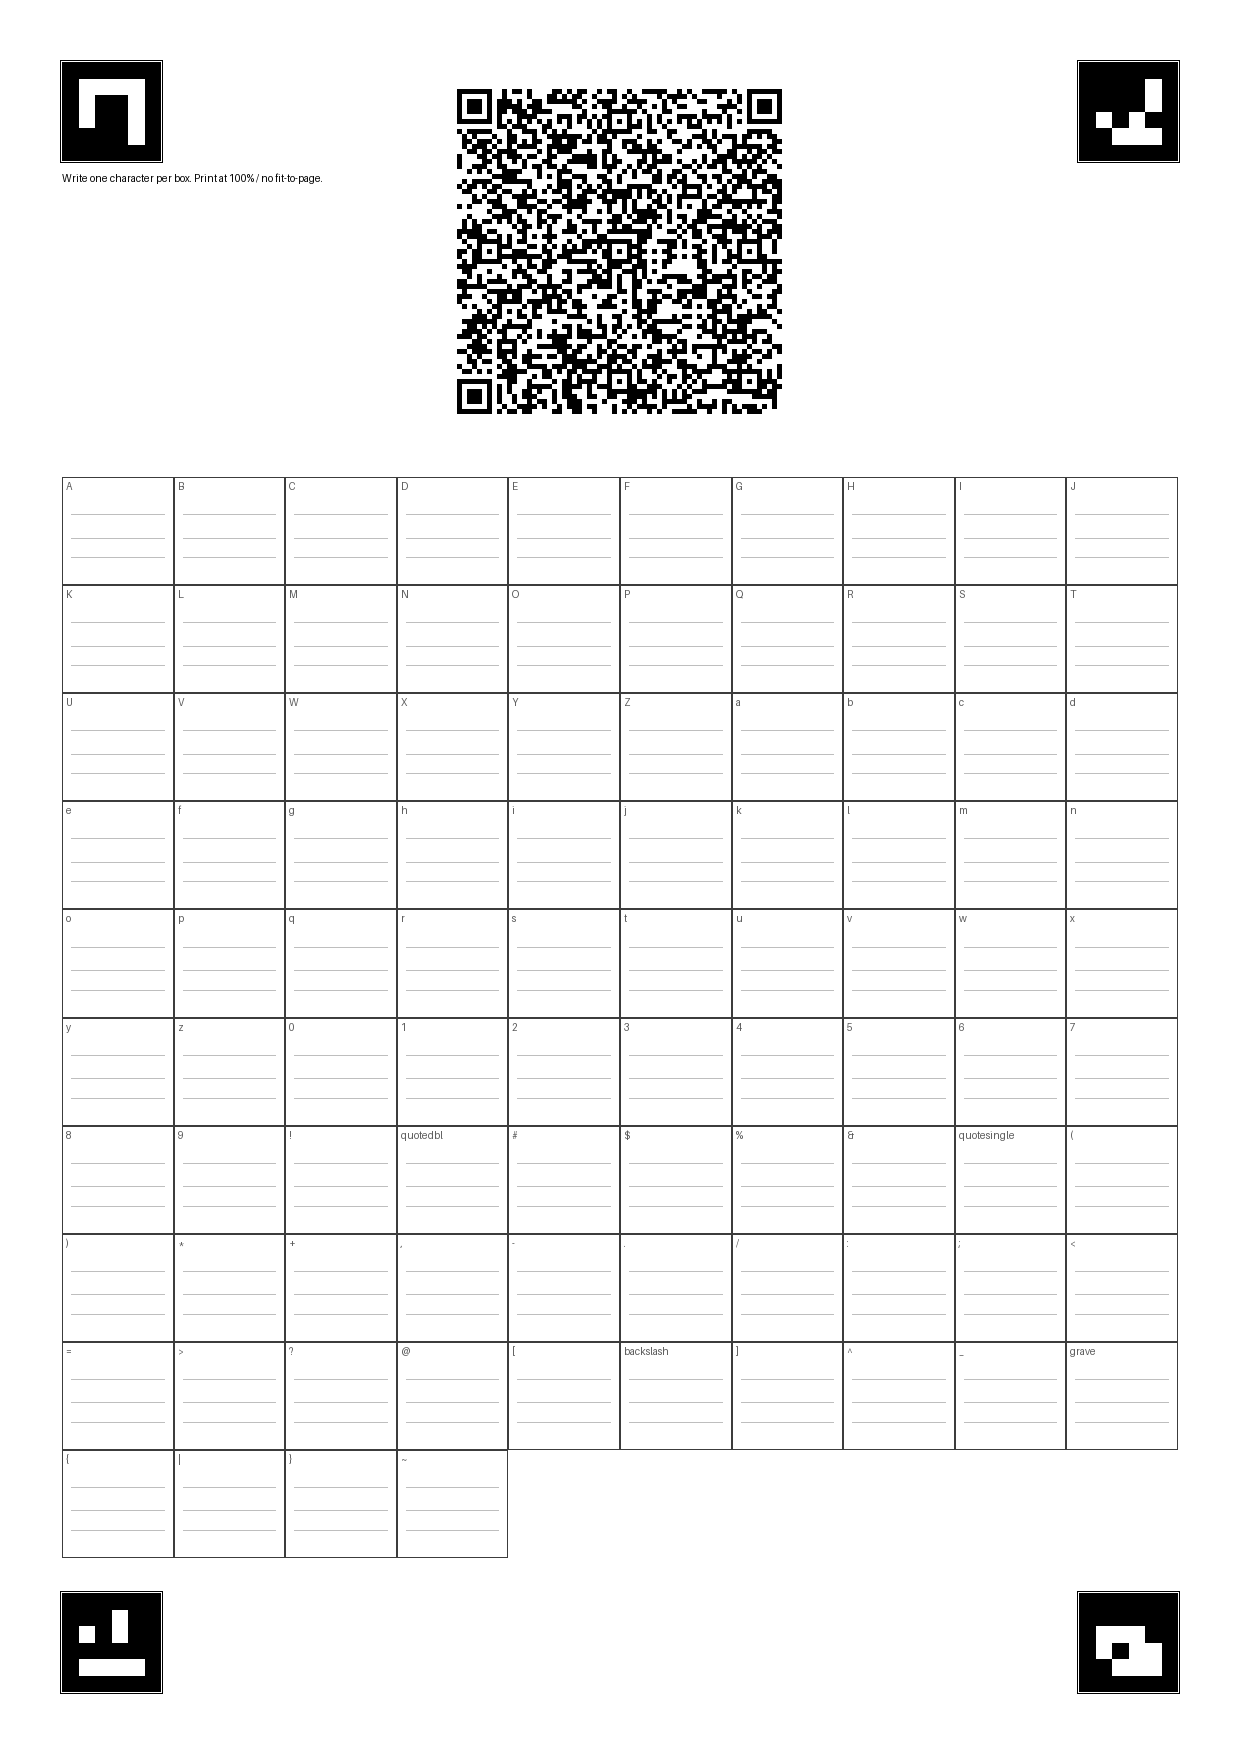
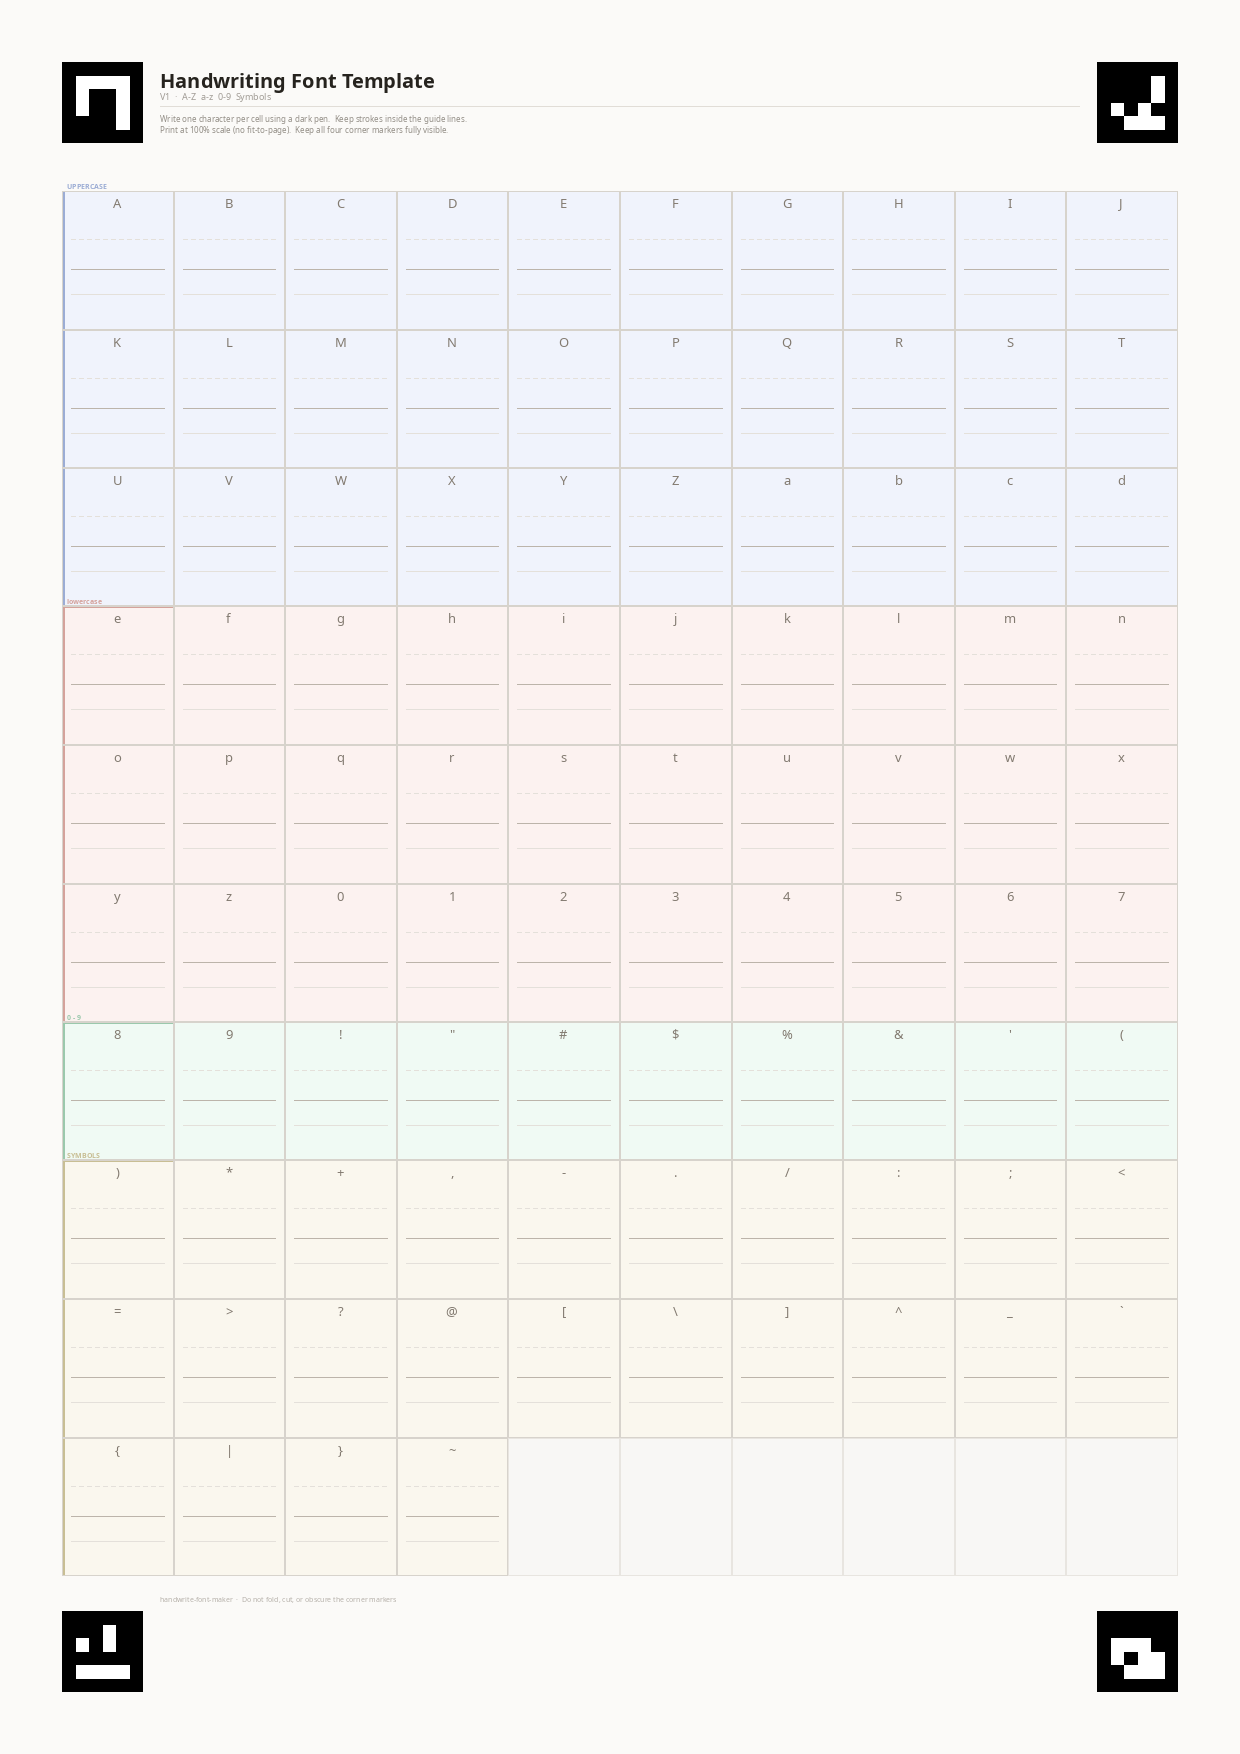
Redesign template for beauty and B&W-safe detection
Group-color-coded rows (blue uppercase, warm lowercase, green digits,
amber symbols) with accent bars, dashed ascender guides, solid baselines,
section labels, and empty-cell treatment.  Row tints stay within 6 gray
levels of the background so B&W photocopies and mobile captures still
detect cleanly (verified under 7 conditions: clean, B&W, warp 0.12/0.16,
dark+noisy, etc — all reproj < 2px).

diff --git a/src/handwrite_font_maker/template.py b/src/handwrite_font_maker/template.py
@@ -3,12 +3,10 @@ from __future__ import annotations
 from io import BytesIO
 from pathlib import Path
 
-import qrcode
 from PIL import Image, ImageDraw, ImageFont
 
-from .layout import get_layout, glyph_slug
+from .layout import get_layout
 from .markers import generate_marker_image
-from .metadata import encode_metadata, metadata_for_layout
 from .schema import DEFAULT_DPI, Rect, TemplateGeometry, TemplateLayout, compute_geometry, page_points
 
 
@@ -17,20 +15,49 @@ def _paste_grayscale(target: Image.Image, grayscale, box: Rect) -> None:
     target.paste(marker, (box.left, box.top))
 
 
-def _qr_image(payload: str, size: int) -> Image.Image:
-    border = 4
-    qr = qrcode.QRCode(error_correction=qrcode.constants.ERROR_CORRECT_M, border=border, box_size=1)
-    qr.add_data(payload)
-    qr.make(fit=True)
-    modules_with_border = qr.modules_count + (border * 2)
-    box_size = max(2, size // modules_with_border)
-    qr.box_size = box_size
-    qr_image = qr.make_image(fill_color="black", back_color="white").convert("RGB")
-    canvas = Image.new("RGB", (size, size), "white")
-    x = (size - qr_image.width) // 2
-    y = (size - qr_image.height) // 2
-    canvas.paste(qr_image, (x, y))
-    return canvas
+def _load_font(size: int, bold: bool = False) -> ImageFont.FreeTypeFont:
+    paths = [
+        f"/usr/share/fonts/truetype/noto/NotoSans-{'Bold' if bold else 'Regular'}.ttf",
+        f"/usr/share/fonts/truetype/dejavu/DejaVuSans{'-Bold' if bold else ''}.ttf",
+    ]
+    for path in paths:
+        try:
+            return ImageFont.truetype(path, size)
+        except OSError:
+            continue
+    return ImageFont.load_default()
+
+
+_ROW_GROUPS = {
+    0: ("UPPERCASE", (240, 243, 252), (155, 172, 212)),
+    1: ("UPPERCASE", (240, 243, 252), (155, 172, 212)),
+    2: ("UPPERCASE", (240, 243, 252), (155, 172, 212)),
+    3: ("lowercase", (252, 242, 240), (212, 162, 155)),
+    4: ("lowercase", (252, 242, 240), (212, 162, 155)),
+    5: ("lowercase", (252, 242, 240), (212, 162, 155)),
+    6: ("0 - 9", (240, 250, 244), (155, 200, 172)),
+    7: ("SYMBOLS", (250, 247, 238), (200, 190, 148)),
+    8: ("SYMBOLS", (250, 247, 238), (200, 190, 148)),
+    9: ("SYMBOLS", (250, 247, 238), (200, 190, 148)),
+}
+
+_GROUP_START_ROWS = {0, 3, 6, 7}
+
+
+def _draw_dashed_line(
+    draw: ImageDraw.ImageDraw,
+    x0: int,
+    y: int,
+    x1: int,
+    fill: tuple[int, int, int],
+    dash: int = 4,
+    gap: int = 4,
+) -> None:
+    x = x0
+    while x < x1:
+        end = min(x + dash, x1)
+        draw.line((x, y, end, y), fill=fill, width=1)
+        x = end + gap
 
 
 def render_template_image(
@@ -41,34 +68,145 @@ def render_template_image(
 ) -> Image.Image:
     layout = layout or get_layout(paper_size=paper_size)
     geometry = compute_geometry(layout, dpi=dpi, paper_size=paper_size)
-    image = Image.new("RGB", (geometry.page_width, geometry.page_height), "white")
+    bg = (251, 250, 248)
+    image = Image.new("RGB", (geometry.page_width, geometry.page_height), bg)
     draw = ImageDraw.Draw(image)
 
     for role, box in geometry.marker_boxes.items():
         marker_id = layout.marker_roles[role]
         marker = generate_marker_image(marker_id, geometry.marker_size, layout.marker_dictionary)
         _paste_grayscale(image, marker, box)
-        draw.rectangle((box.left - 2, box.top - 2, box.right + 2, box.bottom + 2), outline=(0, 0, 0), width=1)
 
-    payload = encode_metadata(metadata_for_layout(layout, dpi=dpi))
-    qr = _qr_image(payload, geometry.qr_box.width)
-    image.paste(qr, (geometry.qr_box.left, geometry.qr_box.top))
+    _draw_header(draw, geometry, layout)
 
-    draw.text((geometry.margin, geometry.marker_boxes["top_left"].bottom + 12), "Write one character per box. Print at 100% / no fit-to-page.", fill=(0, 0, 0))
+    label_font = _load_font(max(11, geometry.page_width // 95))
+    group_font = _load_font(max(7, geometry.page_width // 175), bold=True)
 
-    font = ImageFont.load_default()
-    for char, cell in zip(layout.chars, geometry.cell_rects, strict=True):
-        draw.rectangle((cell.left, cell.top, cell.right, cell.bottom), outline=(60, 60, 60), width=1)
-        label = glyph_slug(char) if char in {'"', "'", "`", "\\"} else char
-        draw.text((cell.left + 4, cell.top + 3), label, fill=(90, 90, 90), font=font)
+    border_color = (215, 211, 204)
+    label_color = (130, 122, 112)
+    guide_light = (228, 224, 218)
+    guide_baseline = (188, 180, 170)
+    accent_bar_width = max(2, geometry.page_width // 500)
+
+    prev_group = None
+    for index, (char, cell) in enumerate(zip(layout.chars, geometry.cell_rects, strict=True)):
+        row_idx = index // layout.columns
+        col_idx = index % layout.columns
+        group_name, tint, accent = _ROW_GROUPS.get(row_idx, ("", bg, (200, 200, 200)))
+
+        draw.rectangle((cell.left + 1, cell.top + 1, cell.right - 1, cell.bottom - 1), fill=tint)
+
+        if col_idx == 0:
+            draw.rectangle(
+                (cell.left, cell.top, cell.left + accent_bar_width, cell.bottom),
+                fill=accent,
+            )
+
+        if row_idx in _GROUP_START_ROWS and col_idx == 0 and row_idx != 0:
+            sep_y = cell.top
+            draw.line(
+                (geometry.grid_rect.left, sep_y, geometry.grid_rect.right, sep_y),
+                fill=accent,
+                width=2,
+            )
+
+        draw.rectangle((cell.left, cell.top, cell.right, cell.bottom), outline=border_color, width=1)
+
+        label_bbox = draw.textbbox((0, 0), char, font=label_font)
+        lw = label_bbox[2] - label_bbox[0]
+        lx = cell.left + (cell.width - lw) // 2
+        ly = cell.top + 3
+        draw.text((lx, ly), char, fill=label_color, font=label_font)
+
+        if col_idx == 0 and row_idx in _GROUP_START_ROWS:
+            gx = cell.left + accent_bar_width + 3
+            gy = cell.top - group_font.size - 3
+            draw.text((gx, gy), group_name, fill=accent, font=group_font)
+
         inner_left = cell.left + int(round(cell.width * layout.inner_margin_x))
         inner_right = cell.right - int(round(cell.width * layout.inner_margin_x))
         inner_top = cell.top + int(round(cell.height * layout.inner_margin_y))
         inner_bottom = cell.bottom - int(round(cell.height * 0.05))
-        for row in layout.guide_rows:
-            y = int(round(inner_top + ((inner_bottom - inner_top) * row)))
-            draw.line((inner_left, y, inner_right, y), fill=(190, 190, 190), width=1)
+
+        for gi, guide_row in enumerate(layout.guide_rows):
+            y = int(round(inner_top + ((inner_bottom - inner_top) * guide_row)))
+            is_baseline = gi == len(layout.guide_rows) - 2
+            if gi == 0:
+                _draw_dashed_line(draw, inner_left, y, inner_right, fill=guide_light)
+            elif is_baseline:
+                draw.line((inner_left, y, inner_right, y), fill=guide_baseline, width=1)
+            else:
+                draw.line((inner_left, y, inner_right, y), fill=guide_light, width=1)
+
+    _draw_empty_cells(draw, layout, geometry, bg)
+    _draw_footer(draw, geometry)
+
     return image
+
+
+def _draw_empty_cells(
+    draw: ImageDraw.ImageDraw,
+    layout: TemplateLayout,
+    geometry: TemplateGeometry,
+    bg: tuple[int, int, int],
+) -> None:
+    total = len(layout.chars)
+    last_row = (total - 1) // layout.columns
+    filled = total % layout.columns or layout.columns
+    if filled >= layout.columns:
+        return
+
+    cell_w = geometry.grid_rect.width / layout.columns
+    cell_h = geometry.grid_rect.height / layout.rows
+    empty_fill = (248, 247, 245)
+    empty_border = (232, 229, 224)
+
+    for col in range(filled, layout.columns):
+        left = int(round(geometry.grid_rect.left + col * cell_w))
+        top = int(round(geometry.grid_rect.top + last_row * cell_h))
+        right = int(round(geometry.grid_rect.left + (col + 1) * cell_w)) - 1
+        bottom = int(round(geometry.grid_rect.top + (last_row + 1) * cell_h)) - 1
+        draw.rectangle((left + 1, top + 1, right - 1, bottom - 1), fill=empty_fill)
+        draw.rectangle((left, top, right, bottom), outline=empty_border, width=1)
+
+
+def _draw_header(draw: ImageDraw.ImageDraw, geometry: TemplateGeometry, layout: TemplateLayout) -> None:
+    title_font = _load_font(max(16, geometry.page_width // 60), bold=True)
+    subtitle_font = _load_font(max(9, geometry.page_width // 130))
+    instr_font = _load_font(max(8, geometry.page_width // 145))
+
+    title_x = geometry.marker_boxes["top_left"].right + 18
+    title_y = geometry.margin + 4
+
+    draw.text((title_x, title_y), "Handwriting Font Template", fill=(38, 35, 30), font=title_font)
+
+    subtitle_y = title_y + title_font.size + 4
+    draw.text((title_x, subtitle_y), "V1  ·  A-Z  a-z  0-9  Symbols", fill=(160, 155, 148), font=subtitle_font)
+
+    sep_y = subtitle_y + subtitle_font.size + 7
+    sep_right = geometry.marker_boxes["top_right"].left - 18
+    draw.line((title_x, sep_y, sep_right, sep_y), fill=(225, 221, 215), width=1)
+
+    instr_y = sep_y + 7
+    instructions = [
+        "Write one character per cell using a dark pen.  Keep strokes inside the guide lines.",
+        "Print at 100% scale (no fit-to-page).  Keep all four corner markers fully visible.",
+    ]
+    for line in instructions:
+        draw.text((title_x, instr_y), line, fill=(145, 140, 132), font=instr_font)
+        instr_y += instr_font.size + 3
+
+
+def _draw_footer(draw: ImageDraw.ImageDraw, geometry: TemplateGeometry) -> None:
+    footer_font = _load_font(max(7, geometry.page_width // 170))
+    footer_y = geometry.marker_boxes["bottom_left"].top - footer_font.size - 10
+    footer_x = geometry.marker_boxes["bottom_left"].right + 18
+    draw.text(
+        (footer_x, footer_y),
+        "handwrite-font-maker  ·  Do not fold, cut, or obscure the corner markers",
+        fill=(180, 175, 168),
+        font=footer_font,
+    )
 
 
 def generate_template_pdf(
